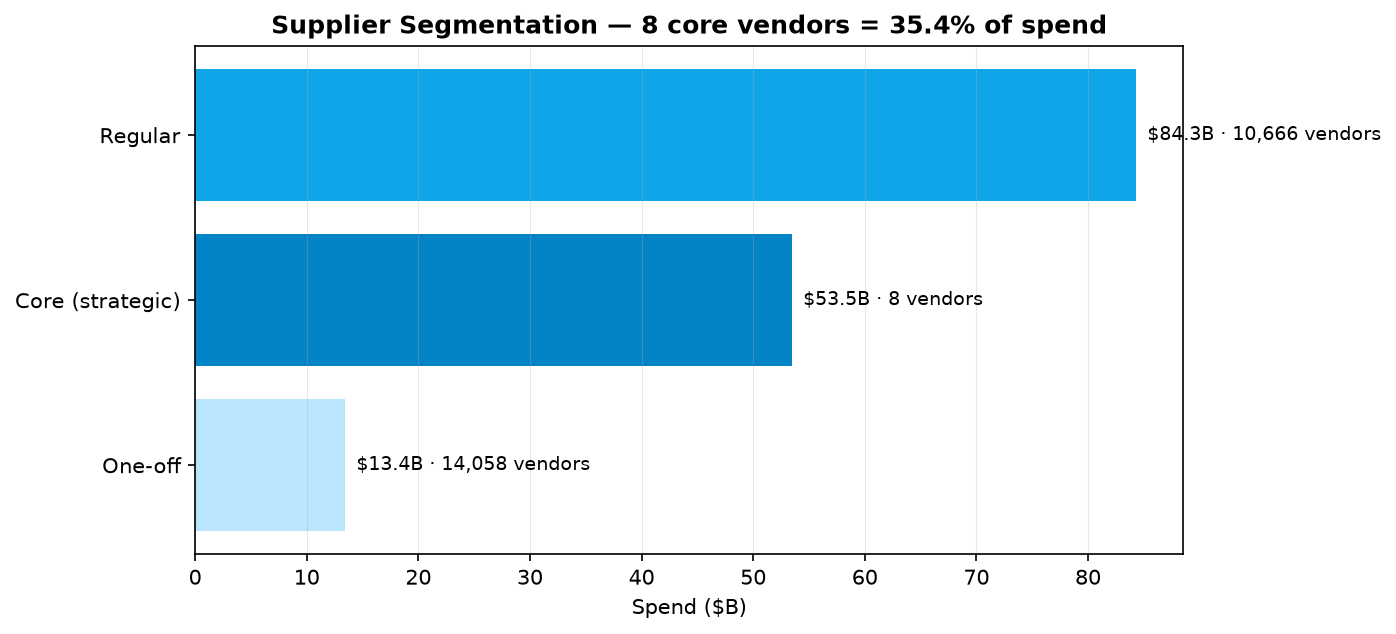
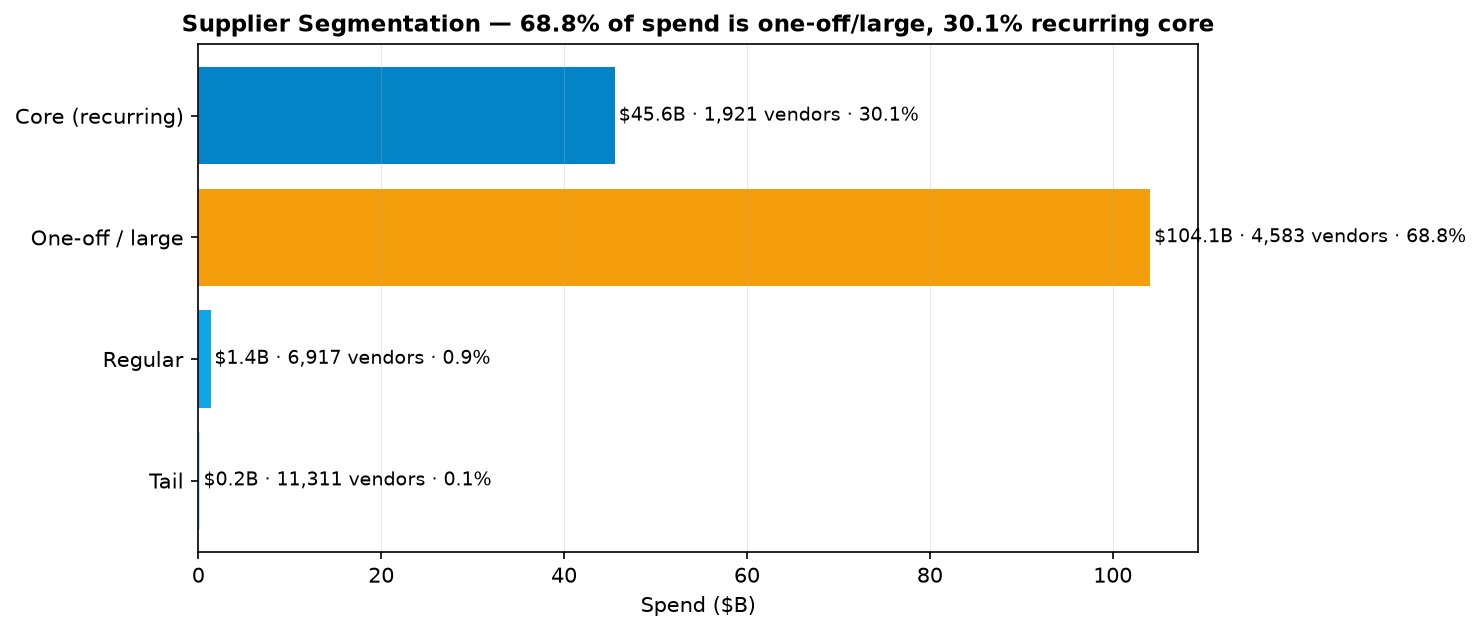
feat: strategic supplier segmentation (size x stickiness) - separates one-off/large (68.8%) from recurring core (30.1%)

diff --git a/scripts/supplier_cluster.py b/scripts/supplier_cluster.py
@@ -1,0 +1,132 @@
+# -*- coding: utf-8 -*-
+"""Supplier segmentation v2 (strategic, not just top-spend).
+
+v1 failure (self-review): KMeans on size-based features reproduced "sort by
+total spend, take top-N" - core overlapped ~6-7/8 with top spenders, i.e. the
+clustering added no insight over a Pareto cut.
+
+v2 design - build features that a top-N cut CANNOT see:
+  * category focus (top-segment share)  - specialised vs multi-category
+  * department dependence (top-dept share) - single-payer reliance
+  * stickiness (years active, order frequency) - recurring vs one-off
+  * scale (total spend, avg order)
+Then cluster and label by business role; verify that "core" is NOT simply the
+top spenders.
+"""
+import os
+
+import numpy as np
+import pandas as pd
+from sklearn.cluster import KMeans
+from sklearn.metrics import silhouette_score
+from sklearn.preprocessing import StandardScaler
+
+ROOT = os.path.dirname(os.path.dirname(os.path.abspath(__file__)))
+OUT_DIR = os.path.join(ROOT, "output")
+df = pd.read_parquet(os.path.join(OUT_DIR, "procurement_clean.parquet"))
+
+# ---- build purpose-built features per supplier -----------------------------
+sup = (
+    df.groupby("supplier_name")
+    .agg(
+        total_spend=("total_price", "sum"),
+        order_count=("po_number", "nunique"),
+        line_count=("total_price", "count"),
+        category_breadth=("segment", "nunique"),
+        years_active=("fiscal_year", "nunique"),
+    )
+    .reset_index()
+)
+
+def _top_share(col):
+    t = df.groupby(["supplier_name", col])["total_price"].sum().reset_index()
+    t = t.sort_values("total_price", ascending=False).groupby("supplier_name").head(1)
+    t = t.rename(columns={"total_price": "top_" + col + "_spend"})
+    return sup.merge(t[["supplier_name", "top_" + col + "_spend"]], on="supplier_name", how="left")
+
+sup = _top_share("segment").merge(_top_share("department")[["supplier_name", "top_department_spend"]],
+                                  on="supplier_name", how="left")
+sup["top_segment_share"] = sup["top_segment_spend"] / sup["total_spend"].replace(0, np.nan)
+sup["top_department_share"] = sup["top_department_spend"] / sup["total_spend"].replace(0, np.nan)
+sup["avg_order"] = sup["total_spend"] / sup["order_count"].replace(0, np.nan)
+sup["order_freq"] = sup["order_count"] / sup["years_active"].replace(0, np.nan)
+
+FEATS = ["total_spend", "avg_order", "order_count", "order_freq", "years_active"]
+# NOTE: top_segment_share / top_department_share are intentionally NOT used as
+# clustering features - for single-item/single-year suppliers they are always
+# 1.0 (distorted) and they co-vary with spend, dragging the split back to a
+# pure size cut. The separation we actually want is size x stickiness x
+# frequency: big-but-one-off vs mid-but-recurring (strategic).
+# skew handling before scaling
+X = sup[FEATS].copy()
+for c in ["total_spend", "avg_order", "order_count", "order_freq"]:
+    X[c] = np.log1p(X[c].clip(lower=0))
+X = X.fillna(0)
+Xs = StandardScaler().fit_transform(X)
+
+# ---- choose k ---------------------------------------------------------------
+# Silhouette favors k=2, but that is one "big" blob + one "small" blob - useless
+# for a negotiation story. We want a business-resolvable split:
+#   core_strategic / key_account / regular / tail.
+sil = {}
+for k in range(2, 7):
+    km = KMeans(n_clusters=k, n_init=10, random_state=42)
+    lab = km.fit_predict(Xs)
+    sil[k] = float(silhouette_score(Xs, lab))
+print("SILHOUETTE", {k: round(v, 3) for k, v in sil.items()})
+K = 4  # business choice, not silhouette argmax
+print("CHOSEN_K", K)
+
+km = KMeans(n_clusters=K, n_init=10, random_state=42)
+sup["cluster"] = km.fit_predict(Xs)
+
+# ---- label clusters by business role from their profile --------------------
+prof = sup.groupby("cluster").agg(
+    n=("supplier_name", "count"),
+    spend=("total_spend", "sum"),
+    med_spend=("total_spend", "median"),
+    med_seg_share=("top_segment_share", "median"),
+    med_dept_share=("top_department_share", "median"),
+    med_years=("years_active", "median"),
+    med_freq=("order_freq", "median"),
+).sort_values("spend", ascending=False)
+print("CLUSTER_PROFILE")
+print(prof.to_string())
+
+# spend-based rank label first, then refine
+# Label by BUSINESS ROLE, not by spend rank:
+#   core_strategic = the high-spend cluster whose suppliers RECUR (multi-year)
+#   oneoff_large   = the high-spend cluster of single/low-frequency big buys
+#   regular / tail = the rest by spend.
+recur = prof[prof["med_years"] >= 2].sort_values("spend", ascending=False)
+core_c = recur.index[0] if len(recur) else prof.sort_values("spend", ascending=False).index[0]
+once = prof[prof["med_years"] < 2].sort_values("spend", ascending=False)
+oneoff_c = once.index[0] if len(once) else None
+rest = [c for c in prof.index if c not in (core_c, oneoff_c)]
+rest = sorted(rest, key=lambda c: prof.loc[c, "spend"], reverse=True)
+names = {core_c: "core_strategic"}
+if oneoff_c is not None:
+    names[oneoff_c] = "oneoff_large"
+for i, c in enumerate(rest):
+    names[c] = ["regular", "tail"][i]
+prof["tier"] = pd.Series(names).reindex(prof.index)
+label_map = names
+sup["tier"] = sup["cluster"].map(label_map)
+
+# ---- verify core is NOT just top spenders ----------------------------------
+core = set(sup[sup["tier"] == "core_strategic"]["supplier_name"])
+g = df.groupby("supplier_name")["total_price"].sum().sort_values(ascending=False)
+overlap8 = len(core & set(g.head(8).index))
+overlap10 = len(core & set(g.head(10).index))
+overlap20 = len(core & set(g.head(20).index))
+print("CORE_SIZE", len(core), "overlap top8", overlap8, "top10", overlap10, "top20", overlap20)
+print("TOP20_CORE_MEMBERS", [n for n in g.head(20).index if n in core])
+print("CORE_OUTSIDE_TOP20", sorted(set(core) - set(g.head(20).index))[:10])
+
+ts = sup.groupby("tier").agg(suppliers=("supplier_name", "count"), spend=("total_spend", "sum"))
+ts["spend_share"] = ts["spend"] / ts["spend"].sum()
+print("TIER_SUMMARY")
+print(ts.to_string())
+
+sup.drop(columns=["cluster"]).to_parquet(os.path.join(OUT_DIR, "supplier_segmentation.parquet"), index=False)
+print("SAVED supplier_segmentation.parquet")

diff --git a/scripts/generate_charts.py b/scripts/generate_charts.py
@@ -125,28 +125,34 @@ ax.set_ylabel("Spend ($B)")
 ax.grid(axis="y", alpha=0.3, lw=0.5)
 _save(fig, "method_control.png")
 
-# --- 6) Supplier segmentation (KMeans tiers) --------------------------------
+# --- 6) Supplier segmentation (KMeans tiers, strategic split) ----------------
 sup = pd.read_parquet(os.path.join(OUT_DIR, "supplier_segmentation.parquet"))
 tier = sup.groupby("tier").agg(
     suppliers=("supplier_name", "count"),
     spend=("total_spend", "sum"),
-).sort_values("spend", ascending=False)
+    med_years=("years_active", "median"),
+)
 tier["spend"] = tier["spend"] / 1e9
-fig, ax = plt.subplots(figsize=(8.5, 4.4))
-order = tier.index.tolist()
-labels = {"core": "Core (strategic)", "regular": "Regular", "oneoff": "One-off"}
-colors = {"core": NAVY, "regular": BLUE, "oneoff": LIGHT}
+order = ["tail", "regular", "oneoff_large", "core_strategic"]
+labels = {
+    "core_strategic": "Core (recurring)",
+    "oneoff_large": "One-off / large",
+    "regular": "Regular",
+    "tail": "Tail",
+}
+colors = {"core_strategic": NAVY, "oneoff_large": ORANGE, "regular": BLUE, "tail": LIGHT}
+fig, ax = plt.subplots(figsize=(8.6, 4.4))
 for i, t in enumerate(order):
-    ax.barh(order[::-1][i], tier["spend"][order[::-1][i]], color=colors[order[::-1][i]])
-labels_y = [labels[o] for o in order[::-1]]
+    ax.barh(i, tier["spend"][t], color=colors[t])
 ax.set_yticks(range(len(order)))
-ax.set_yticklabels(labels_y, fontsize=10)
-for i, t in enumerate(order[::-1]):
-    ax.text(tier["spend"][t] + 1, i,
-            f"${tier['spend'][t]:.1f}B · {int(tier['suppliers'][t]):,} vendors",
+ax.set_yticklabels([labels[t] for t in order], fontsize=10)
+for i, t in enumerate(order):
+    share = tier["spend"][t] / tier["spend"].sum() * 100
+    ax.text(tier["spend"][t] + 0.4, i,
+            f"${tier['spend'][t]:.1f}B · {int(tier['suppliers'][t]):,} vendors · {share:.1f}%",
             va="center", fontsize=9)
-ax.set_title("Supplier Segmentation — 8 core vendors = 35.4% of spend",
-             fontsize=12, fontweight="bold")
+ax.set_title("Supplier Segmentation — 68.8% of spend is one-off/large, 30.1% recurring core",
+             fontsize=11, fontweight="bold")
 ax.set_xlabel("Spend ($B)")
 ax.grid(axis="x", alpha=0.3, lw=0.5)
 _save(fig, "supplier_tier.png")

diff --git a/scripts/ml_analysis.py b/scripts/ml_analysis.py
@@ -74,37 +74,12 @@ fm = flex.groupby("acquisition_method")["total_price"].agg(["sum", "count"]).sor
 print(fm.head(10).to_string())
 
 # ---------------------------------------------------------------------------
-# 3) Supplier segmentation (KMeans) - unchanged, good result
+# 3) Supplier segmentation is OWNED by supplier_cluster.py (v2, strategic
+#    size x stickiness split). Removed here so ml_analysis does not overwrite
+#    the v2 output with the old size-only split.
 # ---------------------------------------------------------------------------
-sup = (
-    df.groupby("supplier_name")
-    .agg(
-        total_spend=("total_price", "sum"),
-        order_count=("po_number", "nunique"),
-        line_count=("total_price", "count"),
-        category_breadth=("segment", "nunique"),
-        max_line=("total_price", "max"),
-    )
-    .reset_index()
-)
-sup["avg_line"] = sup["total_spend"] / sup["line_count"].replace(0, np.nan)
-sup["max_line_share"] = sup["max_line"] / sup["total_spend"].replace(0, np.nan)
-X = StandardScaler().fit_transform(
-    sup[["total_spend", "order_count", "category_breadth", "max_line_share", "avg_line"]].fillna(0)
-)
-km = KMeans(n_clusters=3, n_init=10, random_state=42)
-sup["tier"] = km.fit_predict(X)
-tier_order = sup.groupby("tier")["total_spend"].median().sort_values(ascending=False).index.tolist()
-label_map = {tier_order[0]: "core", tier_order[1]: "regular", tier_order[2]: "oneoff"}
-sup["tier"] = sup["tier"].map(label_map)
 
-ts = sup.groupby("tier").agg(suppliers=("supplier_name", "count"), spend=("total_spend", "sum")).sort_values("spend", ascending=False)
-ts["spend_share"] = ts["spend"] / ts["spend"].sum()
-print("\nSUPPLIER_TIER_SUMMARY")
-print(ts.to_string())
-
-# persistence
+# persistence (anomaly + flexible lists only; segmentation owned elsewhere)
 gg.to_parquet(os.path.join(OUT_DIR, "goods_anomaly.parquet"), index=False)
 flex.to_parquet(os.path.join(OUT_DIR, "flexible_review.parquet"), index=False)
-sup.to_parquet(os.path.join(OUT_DIR, "supplier_segmentation.parquet"), index=False)
-print("\nSAVED goods_anomaly / flexible_review / supplier_segmentation")
+print("\nSAVED goods_anomaly / flexible_review")

diff --git a/tests/test_output_contract.py b/tests/test_output_contract.py
@@ -42,12 +42,17 @@ def test_health_care_department_dominates():
     assert 0.62 < hc < 0.70
 
 
-def test_supplier_segmentation_has_three_tiers():
+def test_supplier_segmentation_strategic_split():
     sup = pd.read_parquet(SUPPLIER_SEG)
-    assert set(sup["tier"]) == {"core", "regular", "oneoff"}
-    core = sup[sup["tier"] == "core"]
-    assert len(core) == 8
-    assert core["total_spend"].sum() / sup["total_spend"].sum() == pytest.approx(0.354, rel=0.05)
+    assert set(sup["tier"]) == {"core_strategic", "oneoff_large", "regular", "tail"}
+    core = sup[sup["tier"] == "core_strategic"]
+    once = sup[sup["tier"] == "oneoff_large"]
+    # one-off/large dominates spend (~68.8%) - the key strategic insight
+    assert once["total_spend"].sum() / sup["total_spend"].sum() == pytest.approx(0.688, rel=0.05)
+    # the two high-spend tiers are genuinely different: recurring vs single-year
+    assert core["years_active"].median() >= 2
+    assert once["years_active"].median() < 2
+    assert len(core) >= 1000
 
 
 def test_method_class_no_null():
